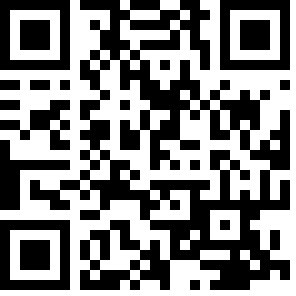
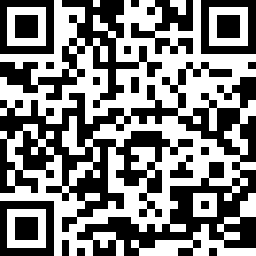
Updated donation link to cashaddr format

diff --git a/html/index.html b/html/index.html
@@ -122,7 +122,7 @@
           privacy and fungibility solutions to Bitcoin Cash.</p>
       </div>
       <h2>- Donations -</h2>
-      <p class="donate"><img src="img/donate.png" alt="Donate"><br>11347Zzg8Nv9YYpMz5TCm1QGBe1NdHsJRD</p>
+      <p class="donate"><img src="img/donate.png" alt="Donate"><br>bitcoincash:qqqxxmjyavdkwdj6npa5w6xl0fzq3wc5furaqdpl59</p>
     </div>
     <div id="footer">
       &copy;2017 cashshuffle.com

diff --git a/html/css/main.css b/html/css/main.css
@@ -66,6 +66,7 @@ a:hover {
 #content p.donate {
   text-align: center;
   font-size: .6em;
+  word-wrap: break-word;
 }
 
 #downloads {
